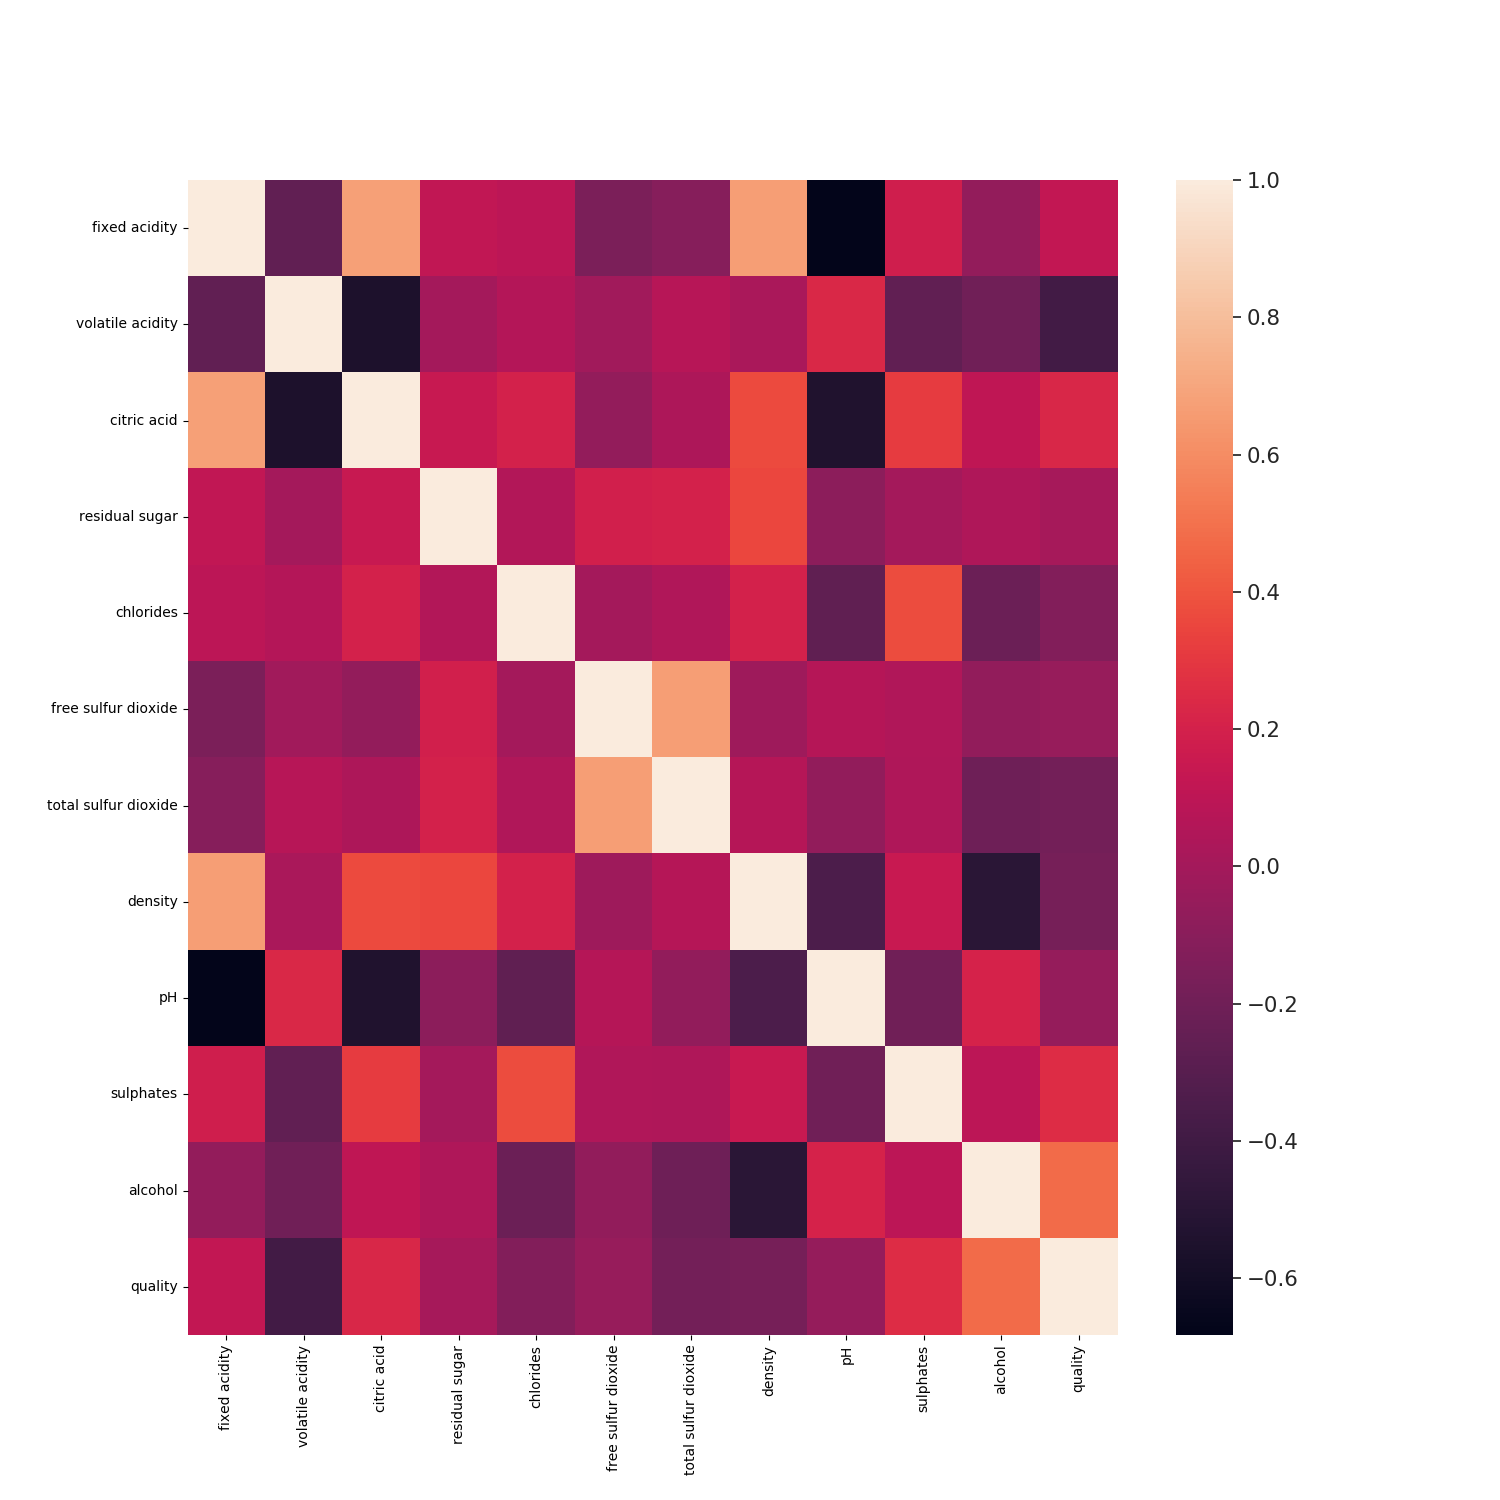
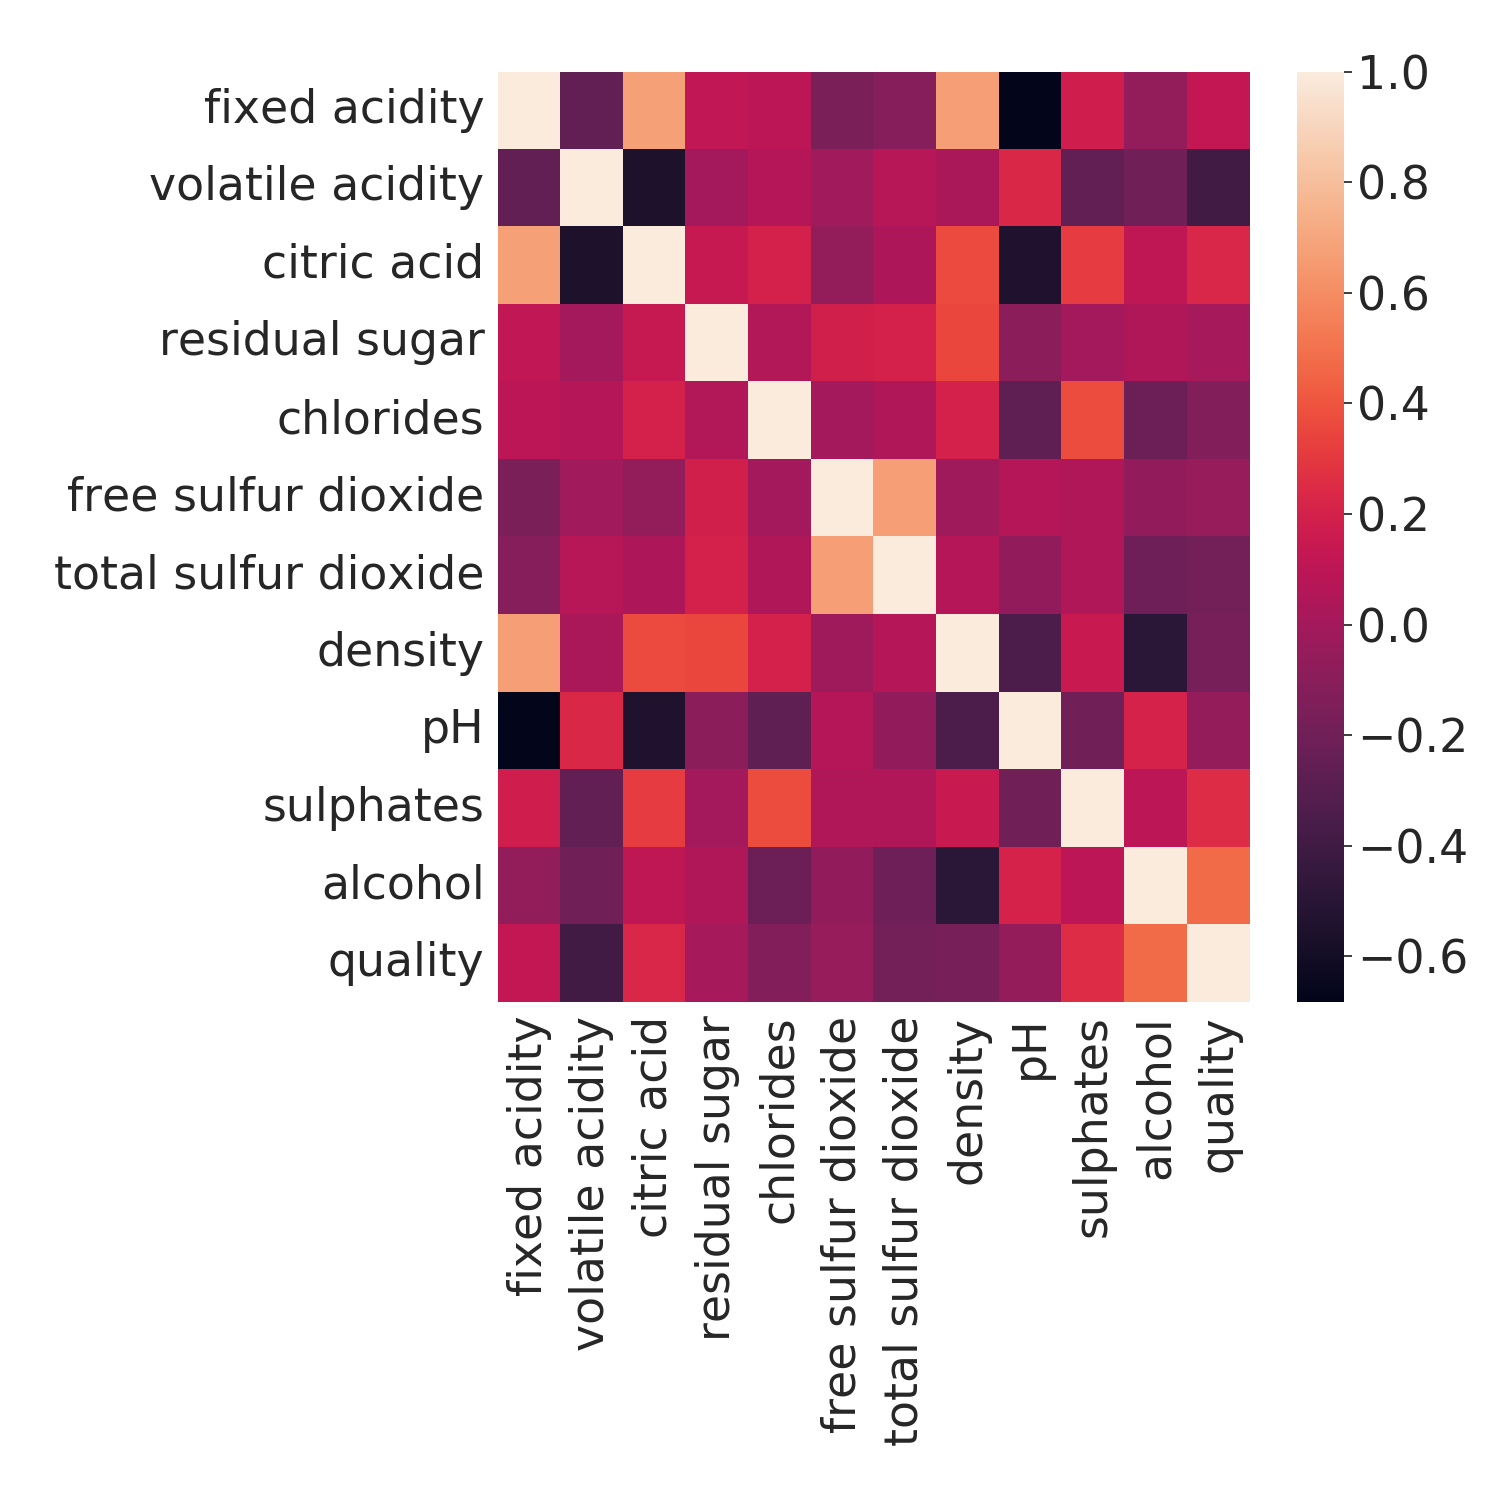
[master] - increased the heatmap fontsize

diff --git a/src/dataset_loader.py b/src/dataset_loader.py
@@ -49,9 +49,10 @@ def dataset_loader(classifier_type):
     path = str(actual_dir) + '/figures/correlation_heatmap_wine_dataset.png'
     if not os.path.exists(path):
         correlations = raw_dataset.corr()
+        sb.set(font_scale=3)
         heatmap_figure, ax = plt.subplots(figsize=(15, 15))
-        sb.set(font_scale=1.4)
         heatmap_figure = sb.heatmap(correlations, ax=ax)
+        ax.figure.tight_layout()
         heatmap_figure.figure.savefig(path)
         plt.close('all')
         path = str(actual_dir) + '/data/correlation_pearson_wine_dataset.csv'
